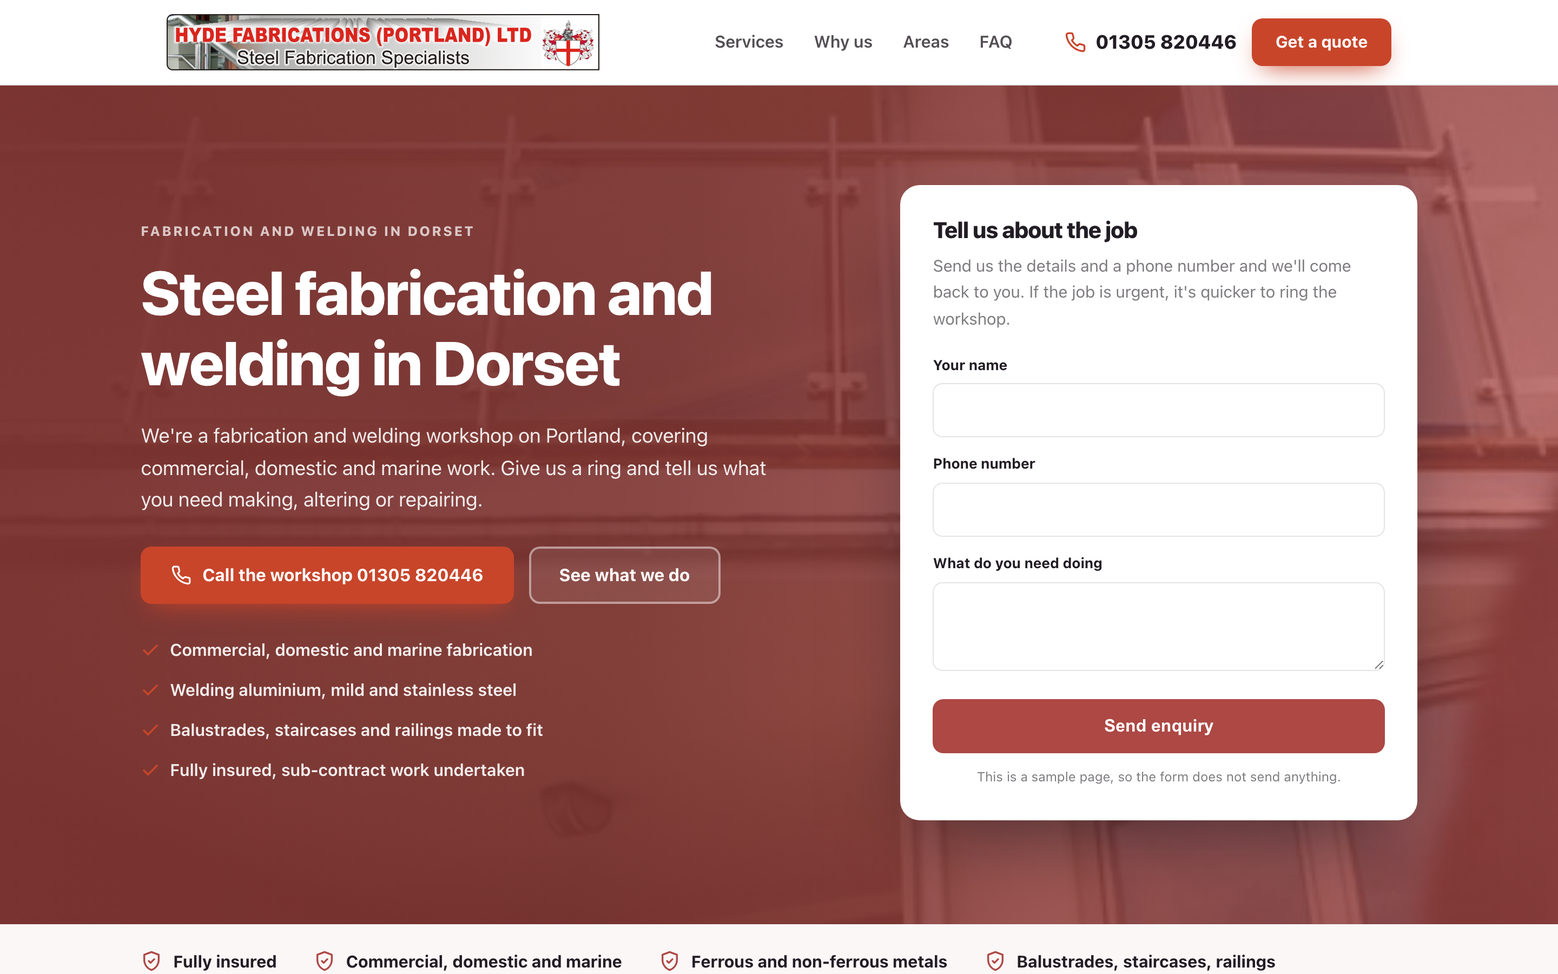
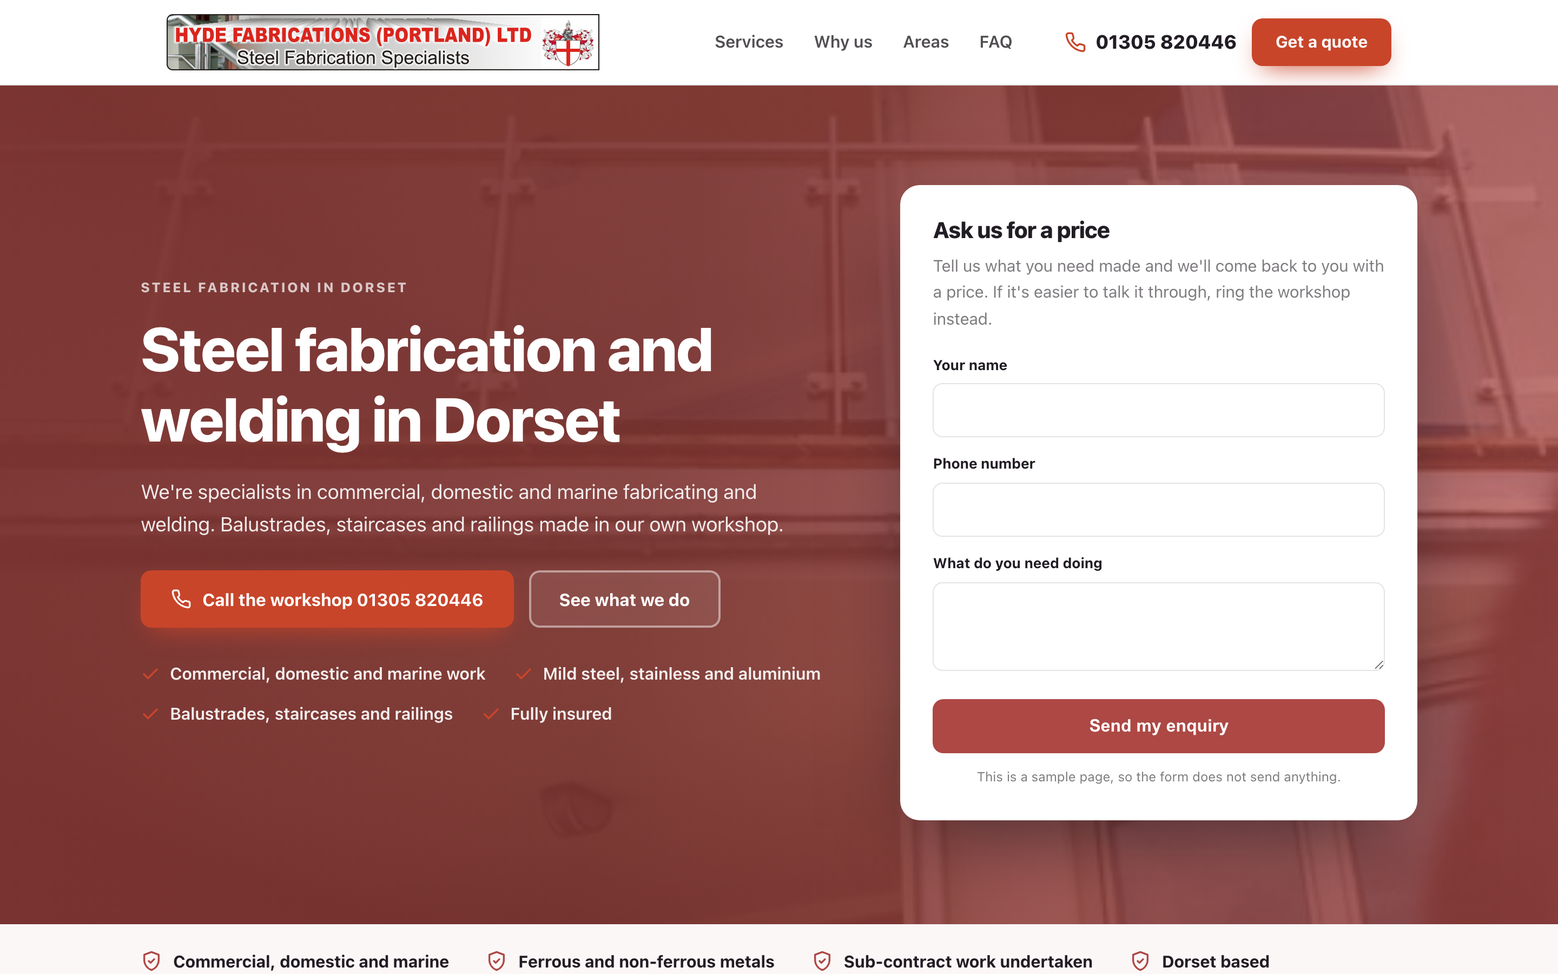
One page sample for Hyde Fabrications Ltd

diff --git a/docs/2bf4139ff9/index.html b/docs/2bf4139ff9/index.html
@@ -4,14 +4,14 @@
 <meta charset="utf-8">
 <meta name="viewport" content="width=device-width, initial-scale=1">
 <meta name="robots" content="noindex,nofollow">
-<meta name="aso-build" content="81522653379e">
-<title>Steel Fabrication in Portland, Dorset | Hyde Fabrications</title>
-<meta name="description" content="Commercial, domestic and marine fabrication and welding in Portland, Dorset. Balustrades, staircases and railings in aluminium, mild and stainless steel.">
+<meta name="aso-build" content="d3d8ee03b6e0">
+<title>Steel Fabrication and Welding in Dorset | Hyde Fabrications</title>
+<meta name="description" content="Hyde Fabrications are welders and fabricators in Dorset. Balustrades, staircases and railings in mild steel, stainless steel and aluminium. Fully insured.">
 <link rel="canonical" href="https://markygff.github.io/aso-mockups/2bf4139ff9/">
 <meta property="og:type" content="website">
 <meta property="og:site_name" content="Hyde Fabrications Ltd">
-<meta property="og:title" content="Steel Fabrication in Portland, Dorset | Hyde Fabrications">
-<meta property="og:description" content="Commercial, domestic and marine fabrication and welding in Portland, Dorset. Balustrades, staircases and railings in aluminium, mild and stainless steel.">
+<meta property="og:title" content="Steel Fabrication and Welding in Dorset | Hyde Fabrications">
+<meta property="og:description" content="Hyde Fabrications are welders and fabricators in Dorset. Balustrades, staircases and railings in mild steel, stainless steel and aluminium. Fully insured.">
 <meta property="og:url" content="https://markygff.github.io/aso-mockups/2bf4139ff9/">
 <meta property="og:image" content="img/t01.jpg"><meta name="twitter:card" content="summary_large_image">
 <style>
@@ -217,19 +217,19 @@ p{margin:0}
   <div class="hero-bg"><img src="img/t01.jpg" alt="Fabrications in Dorset" width="1600" height="900"></div>
   <div class="wrap hero-in">
     <div>
-      <p class="eyebrow">Fabrication and welding in Dorset</p>
+      <p class="eyebrow">Steel fabrication in Dorset</p>
       <h1>Steel fabrication and welding in Dorset</h1>
-      <p class="hero-sub">We&#39;re a fabrication and welding workshop on Portland, covering commercial, domestic and marine work. Give us a ring and tell us what you need making, altering or repairing.</p>
+      <p class="hero-sub">We&#39;re specialists in commercial, domestic and marine fabricating and welding. Balustrades, staircases and railings made in our own workshop.</p>
       <div class="hero-actions">
         <a class="btn btn-accent" href="tel:+441305820446"><svg viewBox="0 0 24 24" fill="none" stroke="currentColor" stroke-width="2" stroke-linecap="round" stroke-linejoin="round" aria-hidden="true"><path d="M22 16.9v3a2 2 0 0 1-2.2 2 19.8 19.8 0 0 1-8.6-3.1 19.5 19.5 0 0 1-6-6 19.8 19.8 0 0 1-3.1-8.7A2 2 0 0 1 4.1 2h3a2 2 0 0 1 2 1.7c.1 1 .4 1.9.7 2.8a2 2 0 0 1-.5 2.1L8.1 9.9a16 16 0 0 0 6 6l1.3-1.2a2 2 0 0 1 2.1-.5c.9.3 1.8.6 2.8.7a2 2 0 0 1 1.7 2z"/></svg>Call the workshop 01305 820446</a>
         <a class="btn btn-ghost" href="#services">See what we do</a>
       </div>
       <ul class="hero-bullets">
-<li><svg viewBox="0 0 24 24" fill="none" stroke="currentColor" stroke-width="2.4" stroke-linecap="round" stroke-linejoin="round" aria-hidden="true"><path d="M20 6 9 17l-5-5"/></svg><span>Commercial, domestic and marine fabrication</span></li><li><svg viewBox="0 0 24 24" fill="none" stroke="currentColor" stroke-width="2.4" stroke-linecap="round" stroke-linejoin="round" aria-hidden="true"><path d="M20 6 9 17l-5-5"/></svg><span>Welding aluminium, mild and stainless steel</span></li><li><svg viewBox="0 0 24 24" fill="none" stroke="currentColor" stroke-width="2.4" stroke-linecap="round" stroke-linejoin="round" aria-hidden="true"><path d="M20 6 9 17l-5-5"/></svg><span>Balustrades, staircases and railings made to fit</span></li><li><svg viewBox="0 0 24 24" fill="none" stroke="currentColor" stroke-width="2.4" stroke-linecap="round" stroke-linejoin="round" aria-hidden="true"><path d="M20 6 9 17l-5-5"/></svg><span>Fully insured, sub-contract work undertaken</span></li>      </ul>
+<li><svg viewBox="0 0 24 24" fill="none" stroke="currentColor" stroke-width="2.4" stroke-linecap="round" stroke-linejoin="round" aria-hidden="true"><path d="M20 6 9 17l-5-5"/></svg><span>Commercial, domestic and marine work</span></li><li><svg viewBox="0 0 24 24" fill="none" stroke="currentColor" stroke-width="2.4" stroke-linecap="round" stroke-linejoin="round" aria-hidden="true"><path d="M20 6 9 17l-5-5"/></svg><span>Mild steel, stainless and aluminium</span></li><li><svg viewBox="0 0 24 24" fill="none" stroke="currentColor" stroke-width="2.4" stroke-linecap="round" stroke-linejoin="round" aria-hidden="true"><path d="M20 6 9 17l-5-5"/></svg><span>Balustrades, staircases and railings</span></li><li><svg viewBox="0 0 24 24" fill="none" stroke="currentColor" stroke-width="2.4" stroke-linecap="round" stroke-linejoin="round" aria-hidden="true"><path d="M20 6 9 17l-5-5"/></svg><span>Fully insured</span></li>      </ul>
     </div>
     <div class="quote-card" id="quote">
-      <h3>Tell us about the job</h3>
-      <p class="lead">Send us the details and a phone number and we&#39;ll come back to you. If the job is urgent, it&#39;s quicker to ring the workshop.</p>
+      <h3>Ask us for a price</h3>
+      <p class="lead">Tell us what you need made and we&#39;ll come back to you with a price. If it&#39;s easier to talk it through, ring the workshop instead.</p>
       <form action="#" onsubmit="return false" novalidate>
         <div class="field"><label for="h-name">Your name</label>
           <input id="h-name" name="name" type="text" autocomplete="name"></div>
@@ -237,7 +237,7 @@ p{margin:0}
           <input id="h-phone" name="phone" type="tel" autocomplete="tel"></div>
         <div class="field"><label for="h-job">What do you need doing</label>
           <textarea id="h-job" name="job"></textarea></div>
-        <button class="btn btn-primary" type="button">Send enquiry</button>
+        <button class="btn btn-primary" type="button">Send my enquiry</button>
       </form>
       <p class="sample-note">This is a sample page, so the form does not send anything.</p>
     </div>
@@ -246,11 +246,11 @@ p{margin:0}
 
 <div class="trust">
   <div class="wrap trust-in">
-    <div class="trust-item"><svg viewBox="0 0 24 24" fill="none" stroke="currentColor" stroke-width="2" stroke-linecap="round" stroke-linejoin="round" aria-hidden="true"><path d="M12 2 4 5v6c0 5 3.4 9.4 8 11 4.6-1.6 8-6 8-11V5z"/><path d="m9 12 2 2 4-4"/></svg><span>Fully insured</span></div>
     <div class="trust-item"><svg viewBox="0 0 24 24" fill="none" stroke="currentColor" stroke-width="2" stroke-linecap="round" stroke-linejoin="round" aria-hidden="true"><path d="M12 2 4 5v6c0 5 3.4 9.4 8 11 4.6-1.6 8-6 8-11V5z"/><path d="m9 12 2 2 4-4"/></svg><span>Commercial, domestic and marine</span></div>
     <div class="trust-item"><svg viewBox="0 0 24 24" fill="none" stroke="currentColor" stroke-width="2" stroke-linecap="round" stroke-linejoin="round" aria-hidden="true"><path d="M12 2 4 5v6c0 5 3.4 9.4 8 11 4.6-1.6 8-6 8-11V5z"/><path d="m9 12 2 2 4-4"/></svg><span>Ferrous and non-ferrous metals</span></div>
-    <div class="trust-item"><svg viewBox="0 0 24 24" fill="none" stroke="currentColor" stroke-width="2" stroke-linecap="round" stroke-linejoin="round" aria-hidden="true"><path d="M12 2 4 5v6c0 5 3.4 9.4 8 11 4.6-1.6 8-6 8-11V5z"/><path d="m9 12 2 2 4-4"/></svg><span>Balustrades, staircases, railings</span></div>
     <div class="trust-item"><svg viewBox="0 0 24 24" fill="none" stroke="currentColor" stroke-width="2" stroke-linecap="round" stroke-linejoin="round" aria-hidden="true"><path d="M12 2 4 5v6c0 5 3.4 9.4 8 11 4.6-1.6 8-6 8-11V5z"/><path d="m9 12 2 2 4-4"/></svg><span>Sub-contract work undertaken</span></div>
+    <div class="trust-item"><svg viewBox="0 0 24 24" fill="none" stroke="currentColor" stroke-width="2" stroke-linecap="round" stroke-linejoin="round" aria-hidden="true"><path d="M12 2 4 5v6c0 5 3.4 9.4 8 11 4.6-1.6 8-6 8-11V5z"/><path d="m9 12 2 2 4-4"/></svg><span>Dorset based</span></div>
+    <div class="trust-item"><svg viewBox="0 0 24 24" fill="none" stroke="currentColor" stroke-width="2" stroke-linecap="round" stroke-linejoin="round" aria-hidden="true"><path d="M12 2 4 5v6c0 5 3.4 9.4 8 11 4.6-1.6 8-6 8-11V5z"/><path d="m9 12 2 2 4-4"/></svg><span>Dorset and around it</span></div>
   </div>
 </div>
 
@@ -258,29 +258,29 @@ p{margin:0}
   <div class="wrap">
     <div class="section-head">
       <p class="eyebrow">What we do</p>
-      <h2>Fabrication and welding we take on</h2>
-      <p>We work in ferrous and non-ferrous metals, from one-off repairs to sub-contract runs. Tell us the job and we&#39;ll tell you straight whether it&#39;s one for us.</p>
+      <h2>Fabrication and welding we do</h2>
+      <p>We&#39;re welders and fabricators. Here&#39;s what we make, and where you can see it.</p>
     </div>
     <div class="grid grid-3">
       <article class="card">
         <div class="icon"><svg viewBox="0 0 24 24" fill="none" stroke="currentColor" stroke-width="2" stroke-linecap="round" stroke-linejoin="round" aria-hidden="true"><path d="M14.7 6.3a4 4 0 0 0 5.3 5.3l-8 8a3 3 0 0 1-4.2-4.2z"/><path d="m14.7 6.3 3-3"/></svg></div>
-        <h3>Commercial, Domestic and Marine Fabricating</h3>
-        <p>Fabrication and welding for businesses, homes and boats. Come to us for new metalwork, alterations and repairs.</p>
+        <h3>Balustrades, Staircases and Railings</h3>
+        <p>We make and fit balustrades, staircases and railings in mild steel, stainless steel or aluminium, for houses, commercial buildings and boats.</p>
       </article>
       <article class="card">
         <div class="icon"><svg viewBox="0 0 24 24" fill="none" stroke="currentColor" stroke-width="2" stroke-linecap="round" stroke-linejoin="round" aria-hidden="true"><path d="M13 2 4 14h7l-1 8 9-12h-7z"/></svg></div>
-        <h3>Balustrades, Staircases and Railings</h3>
-        <p>Balustrades, staircases and railings made to fit. Useful when a stair needs a handrail, or a balcony or terrace needs guarding properly.</p>
+        <h3>Photo Gallery</h3>
+        <p>Photographs of balustrade work we&#39;ve finished. Worth a look if you want to see the standard of the welding before you ring us.</p>
       </article>
       <article class="card">
         <div class="icon"><svg viewBox="0 0 24 24" fill="none" stroke="currentColor" stroke-width="2" stroke-linecap="round" stroke-linejoin="round" aria-hidden="true"><path d="M3 10.5 12 3l9 7.5"/><path d="M5 9.5V21h14V9.5"/><path d="M10 21v-6h4v6"/></svg></div>
-        <h3>Ferrous and non-ferrous materials including</h3>
-        <p>We work in aluminium, mild steel and stainless steel, so a job in salt air and a job indoors each get the right metal.</p>
+        <h3>Parker Steel</h3>
+        <p>One of the metal suppliers we deal with. Useful if you want to know where the steel and non-ferrous stock behind your job comes from.</p>
       </article>
       <article class="card">
         <div class="icon"><svg viewBox="0 0 24 24" fill="none" stroke="currentColor" stroke-width="2" stroke-linecap="round" stroke-linejoin="round" aria-hidden="true"><path d="M4 20 15 9"/><path d="m14 4 6 6-3 3-6-6z"/><path d="m3 15 6 6"/></svg></div>
-        <h3>Sub-contract work undertaken</h3>
-        <p>Sub-contract fabrication and welding for other trades and firms. Handy when your own shop is full, or a job needs metalwork you don&#39;t cover.</p>
+        <h3>www.parkersteel.co.uk</h3>
+        <p>The Parker Steel site from our links page. They supply steel and non-ferrous metals to the trade and to DIY buyers.</p>
       </article>
     </div>
   </div>
@@ -290,35 +290,35 @@ p{margin:0}
   <div class="wrap">
     <div class="section-head">
       <p class="eyebrow">Why us</p>
-      <h2>Why people use us</h2>
+      <h2>Why call Hyde Fabrications</h2>
     </div>
     <div class="grid grid-2">
       <div class="why-item">
         <div class="why-badge">1</div>
         <div>
-          <h3>A proper workshop</h3>
-          <p>We fabricate on Portland, so work gets made and finished in one place rather than passed around.</p>
+          <h3>We make it and we fit it</h3>
+          <p>Your balustrade, staircase or railing is fabricated by us, so anything that needs altering goes back to the people who welded it.</p>
         </div>
       </div>
       <div class="why-item">
         <div class="why-badge">2</div>
         <div>
-          <h3>Fully insured</h3>
-          <p>We&#39;re fully insured for the work we take on, commercial, domestic and marine alike.</p>
+          <h3>Any of the usual metals</h3>
+          <p>We work in ferrous and non-ferrous materials, including aluminium, mild steel and stainless steel.</p>
         </div>
       </div>
       <div class="why-item">
         <div class="why-badge">3</div>
         <div>
-          <h3>The right metal for the job</h3>
-          <p>Ferrous and non-ferrous, aluminium through to stainless steel. We&#39;ll tell you which one suits the job and why.</p>
+          <h3>Fully insured</h3>
+          <p>We&#39;re fully insured, so builders and homeowners can put us on site without any fuss over paperwork.</p>
         </div>
       </div>
       <div class="why-item">
         <div class="why-badge">4</div>
         <div>
-          <h3>Sub-contract welcome</h3>
-          <p>Other trades and fabricators use us for overflow work and for the metalwork they don&#39;t do themselves.</p>
+          <h3>Happy to sub-contract</h3>
+          <p>We undertake sub-contract work for builders, engineers and boatyards who need welding or fabrication done properly.</p>
         </div>
       </div>
     </div>
@@ -331,7 +331,7 @@ p{margin:0}
     <div class="section-head">
       <p class="eyebrow">Where we work</p>
       <h2>Fabrication across Dorset</h2>
-      <p>We&#39;re based on Portland and take work on across Dorset. Ring us with the postcode and the job and we&#39;ll say whether we can get to you.</p>
+      <p>Our workshop is in Dorset and we work across the county. Commercial, domestic and marine jobs are all welcome.</p>
     </div>
     <ul class="area-list">
 <li>Dorset</li>    </ul>
@@ -345,24 +345,24 @@ p{margin:0}
       <h2>Common questions</h2>
     </div>
     <div class="faq-item">
-      <h3><span>Q.</span>What areas do you cover?</h3>
-      <p>We&#39;re based on Portland and work across Dorset. Give us a ring with the postcode and a description of the job and we&#39;ll tell you whether we can take it on.</p>
+      <h3><span>Q.</span>What areas do you cover in Dorset?</h3>
+      <p>We work across Dorset, on commercial, domestic and marine jobs. If you&#39;re not sure whether your job is near enough to us, ring and ask before you go any further.</p>
     </div>
     <div class="faq-item">
-      <h3><span>Q.</span>Can you make a balustrade or staircase to measure?</h3>
-      <p>Yes, balustrades, staircases and railings are regular work for us. We can make them in mild steel, stainless steel or aluminium to suit where they&#39;re going.</p>
+      <h3><span>Q.</span>Do you make balustrades and staircases to order?</h3>
+      <p>Yes. Balustrades, staircases and railings are one of the main things we make. We can work in mild steel, stainless steel or aluminium, and you can see finished balustrade work in our photo gallery.</p>
     </div>
     <div class="faq-item">
-      <h3><span>Q.</span>How quickly can you start a job?</h3>
-      <p>It depends what&#39;s already in the workshop, so we won&#39;t put a promise on a web page. Call us and we&#39;ll tell you honestly when we could fit the work in.</p>
+      <h3><span>Q.</span>What metals do you weld?</h3>
+      <p>Ferrous and non-ferrous materials, including aluminium, mild steel and stainless steel. Tell us what the job is and where it&#39;s going, and we&#39;ll say which metal makes sense.</p>
     </div>
     <div class="faq-item">
-      <h3><span>Q.</span>Do you quote before starting work?</h3>
-      <p>Yes. Send the details or your drawings through the form below, or call us, and we&#39;ll come back to you with a price before any work begins.</p>
+      <h3><span>Q.</span>Do you take on sub-contract fabrication for builders?</h3>
+      <p>Yes, we undertake sub-contract work, and we&#39;re fully insured. Send us the drawings or a description of what you need made and we&#39;ll come back to you with a price.</p>
     </div>
     <div class="faq-item">
-      <h3><span>Q.</span>What metals do you work with?</h3>
-      <p>Ferrous and non-ferrous metals, including aluminium, mild steel and stainless steel. Describe the job and we&#39;ll tell you which metal we&#39;d use and why.</p>
+      <h3><span>Q.</span>How quickly can you get a price to me?</h3>
+      <p>We don&#39;t publish a turnaround time, so the honest answer is to ask. Ring us or send the form with what you need, and we&#39;ll tell you when we can look at it and what it&#39;ll cost.</p>
     </div>
   </div>
 </section>
@@ -371,8 +371,8 @@ p{margin:0}
   <div class="wrap contact-in">
     <div>
       <p class="eyebrow">Get in touch</p>
-      <h2 style="font-size:clamp(1.75rem,3.2vw,2.4rem);margin-bottom:14px">Tell us about the job</h2>
-      <p style="color:var(--muted);font-size:1.06rem">Send us the details and a phone number and we&#39;ll come back to you. If the job is urgent, it&#39;s quicker to ring the workshop.</p>
+      <h2 style="font-size:clamp(1.75rem,3.2vw,2.4rem);margin-bottom:14px">Ask us for a price</h2>
+      <p style="color:var(--muted);font-size:1.06rem">Tell us what you need made and we&#39;ll come back to you with a price. If it&#39;s easier to talk it through, ring the workshop instead.</p>
       <div class="contact-facts">
         <div class="fact-row"><svg viewBox="0 0 24 24" fill="none" stroke="currentColor" stroke-width="2" stroke-linecap="round" stroke-linejoin="round" aria-hidden="true"><path d="M22 16.9v3a2 2 0 0 1-2.2 2 19.8 19.8 0 0 1-8.6-3.1 19.5 19.5 0 0 1-6-6 19.8 19.8 0 0 1-3.1-8.7A2 2 0 0 1 4.1 2h3a2 2 0 0 1 2 1.7c.1 1 .4 1.9.7 2.8a2 2 0 0 1-.5 2.1L8.1 9.9a16 16 0 0 0 6 6l1.3-1.2a2 2 0 0 1 2.1-.5c.9.3 1.8.6 2.8.7a2 2 0 0 1 1.7 2z"/></svg><div><strong>Phone</strong>
           <a href="tel:+441305820446">01305 820446</a></div></div>
@@ -392,12 +392,12 @@ p{margin:0}
           <input id="c-email" name="email" type="email" autocomplete="email"></div>
         <div class="field"><label for="c-service">What do you need</label>
           <select id="c-service" name="service">
-<option>Commercial, Domestic and Marine Fabricating</option><option>Balustrades, Staircases and Railings</option><option>Ferrous and non-ferrous materials including</option><option>Sub-contract work undertaken</option>            <option>Something else</option>
+<option>Balustrades, Staircases and Railings</option><option>Photo Gallery</option><option>Parker Steel</option><option>www.parkersteel.co.uk</option>            <option>Something else</option>
           </select></div>
         <div class="field"><label for="c-msg">Tell us about the job</label>
           <textarea id="c-msg" name="message"></textarea></div>
         <button class="btn btn-accent" type="button" style="width:100%;justify-content:center">
-          Send enquiry</button>
+          Send my enquiry</button>
         <p class="sample-note">Sample page. Nothing is sent and nothing is stored.</p>
       </form>
     </div>
@@ -409,11 +409,11 @@ p{margin:0}
     <div class="footer-in">
       <div>
         <div class="footer-brand">Hyde Fabrications Ltd</div>
-        <p>Steel and metal fabrication, welding and balustrades, based on Portland and working across Dorset.</p>
+        <p>Commercial, domestic and marine fabricating and welding across Dorset.</p>
 <p style="margin-top:14px"><a href="tel:+441305820446">01305 820446</a></p>      </div>
       <div>
         <h4>Services</h4>
-        <ul><li>Commercial, Domestic and Marine Fabricating</li><li>Balustrades, Staircases and Railings</li><li>Ferrous and non-ferrous materials including</li><li>Sub-contract work undertaken</li></ul>
+        <ul><li>Balustrades, Staircases and Railings</li><li>Photo Gallery</li><li>Parker Steel</li><li>www.parkersteel.co.uk</li></ul>
       </div>
       <div>
         <h4>Areas</h4>
@@ -433,7 +433,7 @@ p{margin:0}
     "@type": "GeneralContractor",
     "name": "Hyde Fabrications Ltd",
     "url": "https://markygff.github.io/aso-mockups/2bf4139ff9/",
-    "description": "Commercial, domestic and marine fabrication and welding in Portland, Dorset. Balustrades, staircases and railings in aluminium, mild and stainless steel.",
+    "description": "Hyde Fabrications are welders and fabricators in Dorset. Balustrades, staircases and railings in mild steel, stainless steel and aluminium. Fully insured.",
     "telephone": "01305 820446",
     "address": {
       "@type": "PostalAddress",
@@ -453,13 +453,6 @@ p{margin:0}
         "@type": "Offer",
         "itemOffered": {
           "@type": "Service",
-          "name": "Commercial, Domestic and Marine Fabricating"
-        }
-      },
-      {
-        "@type": "Offer",
-        "itemOffered": {
-          "@type": "Service",
           "name": "Balustrades, Staircases and Railings"
         }
       },
@@ -467,14 +460,21 @@ p{margin:0}
         "@type": "Offer",
         "itemOffered": {
           "@type": "Service",
-          "name": "Ferrous and non-ferrous materials including"
+          "name": "Photo Gallery"
         }
       },
       {
         "@type": "Offer",
         "itemOffered": {
           "@type": "Service",
-          "name": "Sub-contract work undertaken"
+          "name": "Parker Steel"
+        }
+      },
+      {
+        "@type": "Offer",
+        "itemOffered": {
+          "@type": "Service",
+          "name": "www.parkersteel.co.uk"
         }
       }
     ]
@@ -485,42 +485,42 @@ p{margin:0}
     "mainEntity": [
       {
         "@type": "Question",
-        "name": "What areas do you cover?",
+        "name": "What areas do you cover in Dorset?",
         "acceptedAnswer": {
           "@type": "Answer",
-          "text": "We're based on Portland and work across Dorset. Give us a ring with the postcode and a description of the job and we'll tell you whether we can take it on."
+          "text": "We work across Dorset, on commercial, domestic and marine jobs. If you're not sure whether your job is near enough to us, ring and ask before you go any further."
         }
       },
       {
         "@type": "Question",
-        "name": "Can you make a balustrade or staircase to measure?",
+        "name": "Do you make balustrades and staircases to order?",
         "acceptedAnswer": {
           "@type": "Answer",
-          "text": "Yes, balustrades, staircases and railings are regular work for us. We can make them in mild steel, stainless steel or aluminium to suit where they're going."
+          "text": "Yes. Balustrades, staircases and railings are one of the main things we make. We can work in mild steel, stainless steel or aluminium, and you can see finished balustrade work in our photo gallery."
         }
       },
       {
         "@type": "Question",
-        "name": "How quickly can you start a job?",
+        "name": "What metals do you weld?",
         "acceptedAnswer": {
           "@type": "Answer",
-          "text": "It depends what's already in the workshop, so we won't put a promise on a web page. Call us and we'll tell you honestly when we could fit the work in."
+          "text": "Ferrous and non-ferrous materials, including aluminium, mild steel and stainless steel. Tell us what the job is and where it's going, and we'll say which metal makes sense."
         }
       },
       {
         "@type": "Question",
-        "name": "Do you quote before starting work?",
+        "name": "Do you take on sub-contract fabrication for builders?",
         "acceptedAnswer": {
           "@type": "Answer",
-          "text": "Yes. Send the details or your drawings through the form below, or call us, and we'll come back to you with a price before any work begins."
+          "text": "Yes, we undertake sub-contract work, and we're fully insured. Send us the drawings or a description of what you need made and we'll come back to you with a price."
         }
       },
       {
         "@type": "Question",
-        "name": "What metals do you work with?",
+        "name": "How quickly can you get a price to me?",
         "acceptedAnswer": {
           "@type": "Answer",
-          "text": "Ferrous and non-ferrous metals, including aluminium, mild steel and stainless steel. Describe the job and we'll tell you which metal we'd use and why."
+          "text": "We don't publish a turnaround time, so the honest answer is to ask. Ring us or send the form with what you need, and we'll tell you when we can look at it and what it'll cost."
         }
       }
     ]
